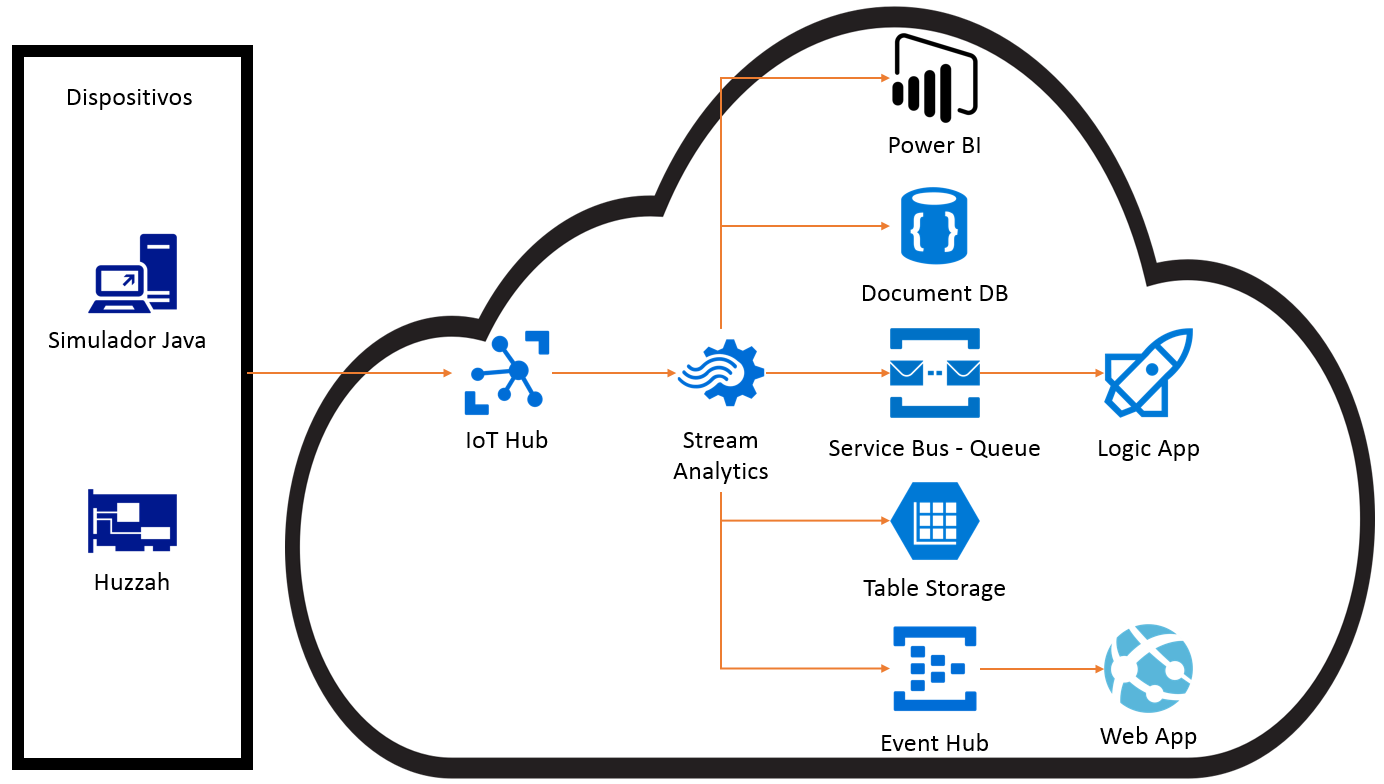
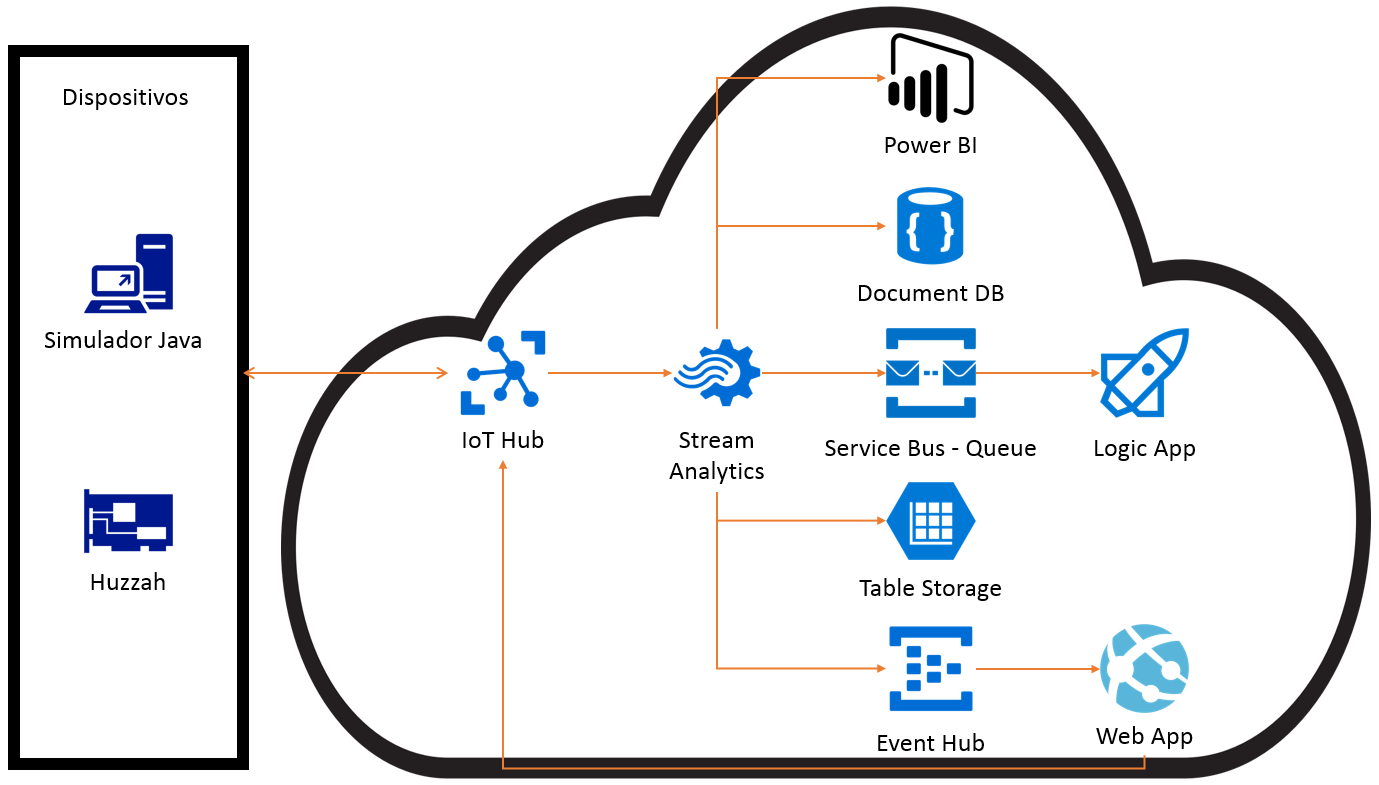
web app modificada

diff --git a/huzzah/webapp/public/index.html b/huzzah/webapp/public/index.html
@@ -2,7 +2,7 @@
 <html lang="en">
 
 <head>
-    <title>Azure IoT Hub</title>
+    <title>Temperatura del Beaker A</title>
     <meta charset="utf-8" />
     <meta http-equiv="X-UA-Compatible" content="IE=edge">
     <meta name="viewport" content="width=device-width, initial-scale=1">
@@ -38,28 +38,28 @@
                     <span class="icon-bar"></span>
                     <span class="icon-bar"></span>
                 </button>
-                <a class="navbar-brand" href="#/">Azure IoT Hub</a>
+                <a class="navbar-brand" href="#/">Temperatura del Beaker A</a>
             </div>
             <div id="navbar" class="navbar-collapse collapse">
                 <ul class="nav navbar-nav">
-                    <li><a href="#/" class="active">Home</a></li>
+                    <li><a href="#/" class="active">Inicio</a></li>
                 </ul>
             </div>
         </div>
     </nav>
 
-    <button type="button" class="btn btn-lg btn-success" ng-click="send(1)">Turn On</button>
-    <button type="button" class="btn btn-lg btn-danger" ng-click="send(0)">Turn Off</button>
+    <button type="button" class="btn btn-lg btn-success" ng-click="send(1)">Abrir Entrada de Materia Prima en el Beaker A</button>
+    <button type="button" class="btn btn-lg btn-danger" ng-click="send(0)">Abrir Salida del Beaker A</button>
 
 
     <div class="row">
         <div class="col-md-4">
-            <h2>Current Temperature</h2> The last recorded reading on device {{ latest_reading.deviceid }} was:
+            <h2>Temperatura Actual</h2> El &uacute;ltimo registro en {{ latest_reading.deviceid }} fue:
             <table>
                 <thead>
                     <tr>
-                        <th>Temperature</th>
-                        <th>Time</th>
+                        <th>Temperatura</th>
+                        <th>Tiempo</th>
                     </tr>
                 </thead>
                 <tbody>
@@ -69,22 +69,22 @@
                 </tbody>
             </table>
         </div>
-        <div class="col-md-4" style="overflow-wrap:break-word">
-            <h2>Alerts</h2>
+        <!--div class="col-md-4" style="overflow-wrap:break-word">
+            <h2>Alertas</h2>
 
             <pre ng-repeat="alert in latest_alerts">{{ alert | json }}</pre>
             <br />
 
-        </div>
+        </div-->
         <div class="col-md-4">
-            <h2>Temperature History</h2>
+            <h2>Histórico</h2>
             <div ng-show="temperatures.length > 0">
-                <h4>Most recent {{ temperatures.length }} readings </h4>
+                <h4>Las {{ temperatures.length }} lecturas más recientes </h4>
             <table>
                 <thead>
                     <tr>
-                        <th>Temperature</th>
-                        <th>Time</th>
+                        <th>Temperatura</th>
+                        <th>Tiempo</th>
                     </tr>
                 </thead>
                 <tbody>
@@ -94,7 +94,7 @@
                 </tbody>
             </table> 
             <div ng-show="temperatures.length === 0">
-                No temperature history found
+                No hay registros de temperatura
             </div>
         </div>
     </div>
@@ -109,7 +109,7 @@
                 $scope.temperatures = [];
             
                 $scope.send = function(value) {
-                    $http.post('/api/command/', {command: value});    
+                    $http.post('/api/command/', {command: value.data});    
                 };
             
                 $http.get('/api/alerts').then(function(data) {
@@ -118,8 +118,8 @@
             
                 $http.get('/api/temperatures').then(function(result) {
                     
-                    if(result.length > 0) {
-                        angular.forEach(result, function(x) {
+                    if(result.data.length > 0) {
+                        angular.forEach(result.data, function(x) {
 
                             var utcSeconds = x.eventtime._;
                             var d = new Date(0);

diff --git a/huzzah/webapp/server.js b/huzzah/webapp/server.js
@@ -56,9 +56,11 @@ app.get('/api/alerts', function(req, res) {
 });
 
 app.get('/api/temperatures', function(req, res) {
+    var fecha = Math.floor(Date.now()/1000) - 1000;
     var query = new azure.TableQuery()
         .select(['eventtime', 'temperaturereading', 'deviceid'])
-        .where('PartitionKey eq ? and eventtime >= ?', deviceId, Math.floor(Date.now()/1000) - 1000);
+        //.where('PartitionKey eq ? and eventtime >= ?', deviceId, fecha);
+        .where('PartitionKey eq ?', deviceId);
     tableSvc.queryEntities(storageTable, query, null, function(err, result, response) {
         if(result.entries != null) {
             res.json(result.entries.slice(-10));
